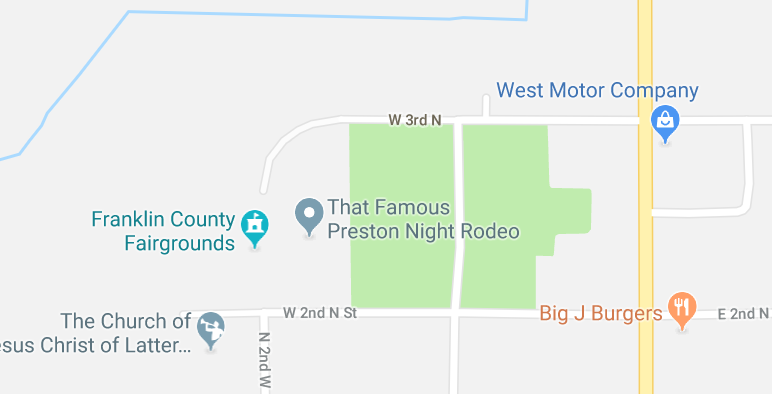
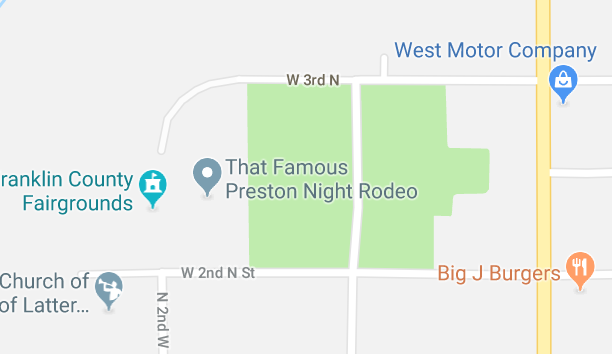
more responsive + clearfix

diff --git a/assignments/lesson-5/preston-5.html b/assignments/lesson-5/preston-5.html
@@ -47,7 +47,10 @@
    <h2>Preston, Idaho</h2>
    
       <div class="snippet">
-        <img src="images/snow.jpg" class="snippetimage" alt="snow on trees">
+        
+        <figure class="snippetimg">
+        <img src="images/snow.jpg" alt="snow on trees">
+        </figure>
 
         <section class="summary">
 
@@ -104,12 +107,20 @@
 
    <article class="preview">
 
-        <img class="previewimg" src="images/sunshine.jpg" alt="sunshine on flowers">
+    <div class="group">
+
       
        <h3 class="preview-title">Best Time to Plant</h3>
        <h4>By Farmer Joe</h4>
+
+       <figure class="previewimg">
+            <img src="images/sunshine.jpg" alt="sunshine on flowers">
+        </figure>
       
             <p>Lorem ipsum dolor sit amet, consectetur adipiscing elit. Integer porta tortor vitae quam bibendum, in condimentum orci luctus. In mauris ante, placerat quis quam at, mattis convallis nunc. Integer sollicitudin id erat sed efficitur. Nullam in mattis libero. Mauris mauris quam, blandit elementum viverra et, fringilla ut metus. Mauris placerat fringilla lectus et volutpat. Quisque dapibus sodales dignissim. Nunc mattis consectetur quam, ut pharetra enim porttitor nec. Maecenas pellentesque est nisl, id tempor lectus facilisis sed.</p>
+            <p>Proin ultrices a lectus sit amet feugiat. Phasellus metus velit, iaculis pellentesque egestas et, auctor non massa. Mauris pulvinar rutrum porta. Sed dolor dui, imperdiet ut ante ut, ultrices rutrum urna. Class aptent taciti sociosqu ad litora torquent per conubia nostra, per inceptos himenaeos. Morbi a dignissim dolor. Fusce nisl urna, laoreet aliquam est vel, accumsan sollicitudin urna. Etiam venenatis nec purus et porta. Maecenas imperdiet feugiat justo ut facilisis. Fusce in nisl ac ex elementum porta eget in nulla. Nullam ornare suscipit tristique. Nullam a tellus quis metus elementum molestie at nec lectus. Curabitur viverra elit nisl, at bibendum diam maximus id. Ut lacinia elit lectus, ut venenatis est suscipit in. In efficitur lacus sed metus hendrerit, sed posuere lectus vestibulum. Quisque vitae aliquam nisl.</p>
+            <p><a href="#">Continue reading...</a></p>
+        </div>
 
    </article>
 </main>
@@ -132,7 +143,9 @@
                 <img src="images/youtube.png" alt="youtube logo">
             </div>
 
-            <img  class="map" src="images/map.png" alt="map snippet">
+            <figure class="map">
+            <img src="images/map.png" alt="map snippet">
+            </figure>
 
     </div>
     

diff --git a/assignments/lesson-5/css/small-5.css b/assignments/lesson-5/css/small-5.css
@@ -126,15 +126,19 @@ h5 {
     position: relative;
 }
 
-.snippetimage {
-    width: 100%;
+main figure.snippetimg {
+    width: 97%;
     margin: auto;
+}
+
+main figure.snippetimg img {
+    width: 100%;
 }
 
 .summary {
     position: absolute;
-	top: 1.2em;
-	left: 1.2em;
+	top: 1.5em;
+	left: 2em;
 	background-color: #ffffff;
     border: 2px solid #456990;
     padding: 1.5rem;
@@ -191,13 +195,26 @@ table, th, td {
     padding: 10px;
 }
 
+article figure.previewimg {
+    width: 98%;
+    margin: auto;
+}
 
+article figure.previewimg img {
+    width: 100%;
+}
 .previewimg {
     width: 100%;
 }
 
 .preview-title {
     text-align: left;
+}
+
+.preview p a {
+    font-family: Nunito, Arial, Helvetica, sans-serif;
+    color: #456990;
+    font-size: 1.4em;
 }
 
 /*Footer contact info*/
@@ -229,9 +246,13 @@ table, th, td {
 
 /*Footer map*/
 
-.map {
-    width: 90%;
+footer figure.map {
+    width: 70%;
     margin: auto;
+}
+
+footer figure.map img {
+    width: 100%;
 }
 
 /*Footer terms and copyright*/
@@ -242,6 +263,14 @@ table, th, td {
     padding-bottom: 10px;
     background-color: #dfd9e2;
 }
+
+/*Clearfix*/
+
+.group:after {
+    content: "";
+    display: table;
+    clear: both;
+  }
 
 
 

diff --git a/assignments/lesson-5/css/large-5.css b/assignments/lesson-5/css/large-5.css
@@ -46,34 +46,27 @@
         margin-bottom: 3em;
     }
 
-
     .input {
         float: none;
     }
-
     
-    .previewimg {
-        width: 30%;
+    article figure.previewimg {
+        width: 40%;
         float: right;
-        overflow: auto;
-        padding-left: 20px;
-        padding-top: 5px;
+        padding-left: 10px;
     }
     
     .contact {
         position: relative;
-        overflow: none;
     }
-
    
-    .map {
+    footer figure.map {
+        width: 30%;
         position: absolute;
-        width: 40%;
         right: 1em;
         top: 1em;
     }
-
-   
-
+    
+    
 }
 
